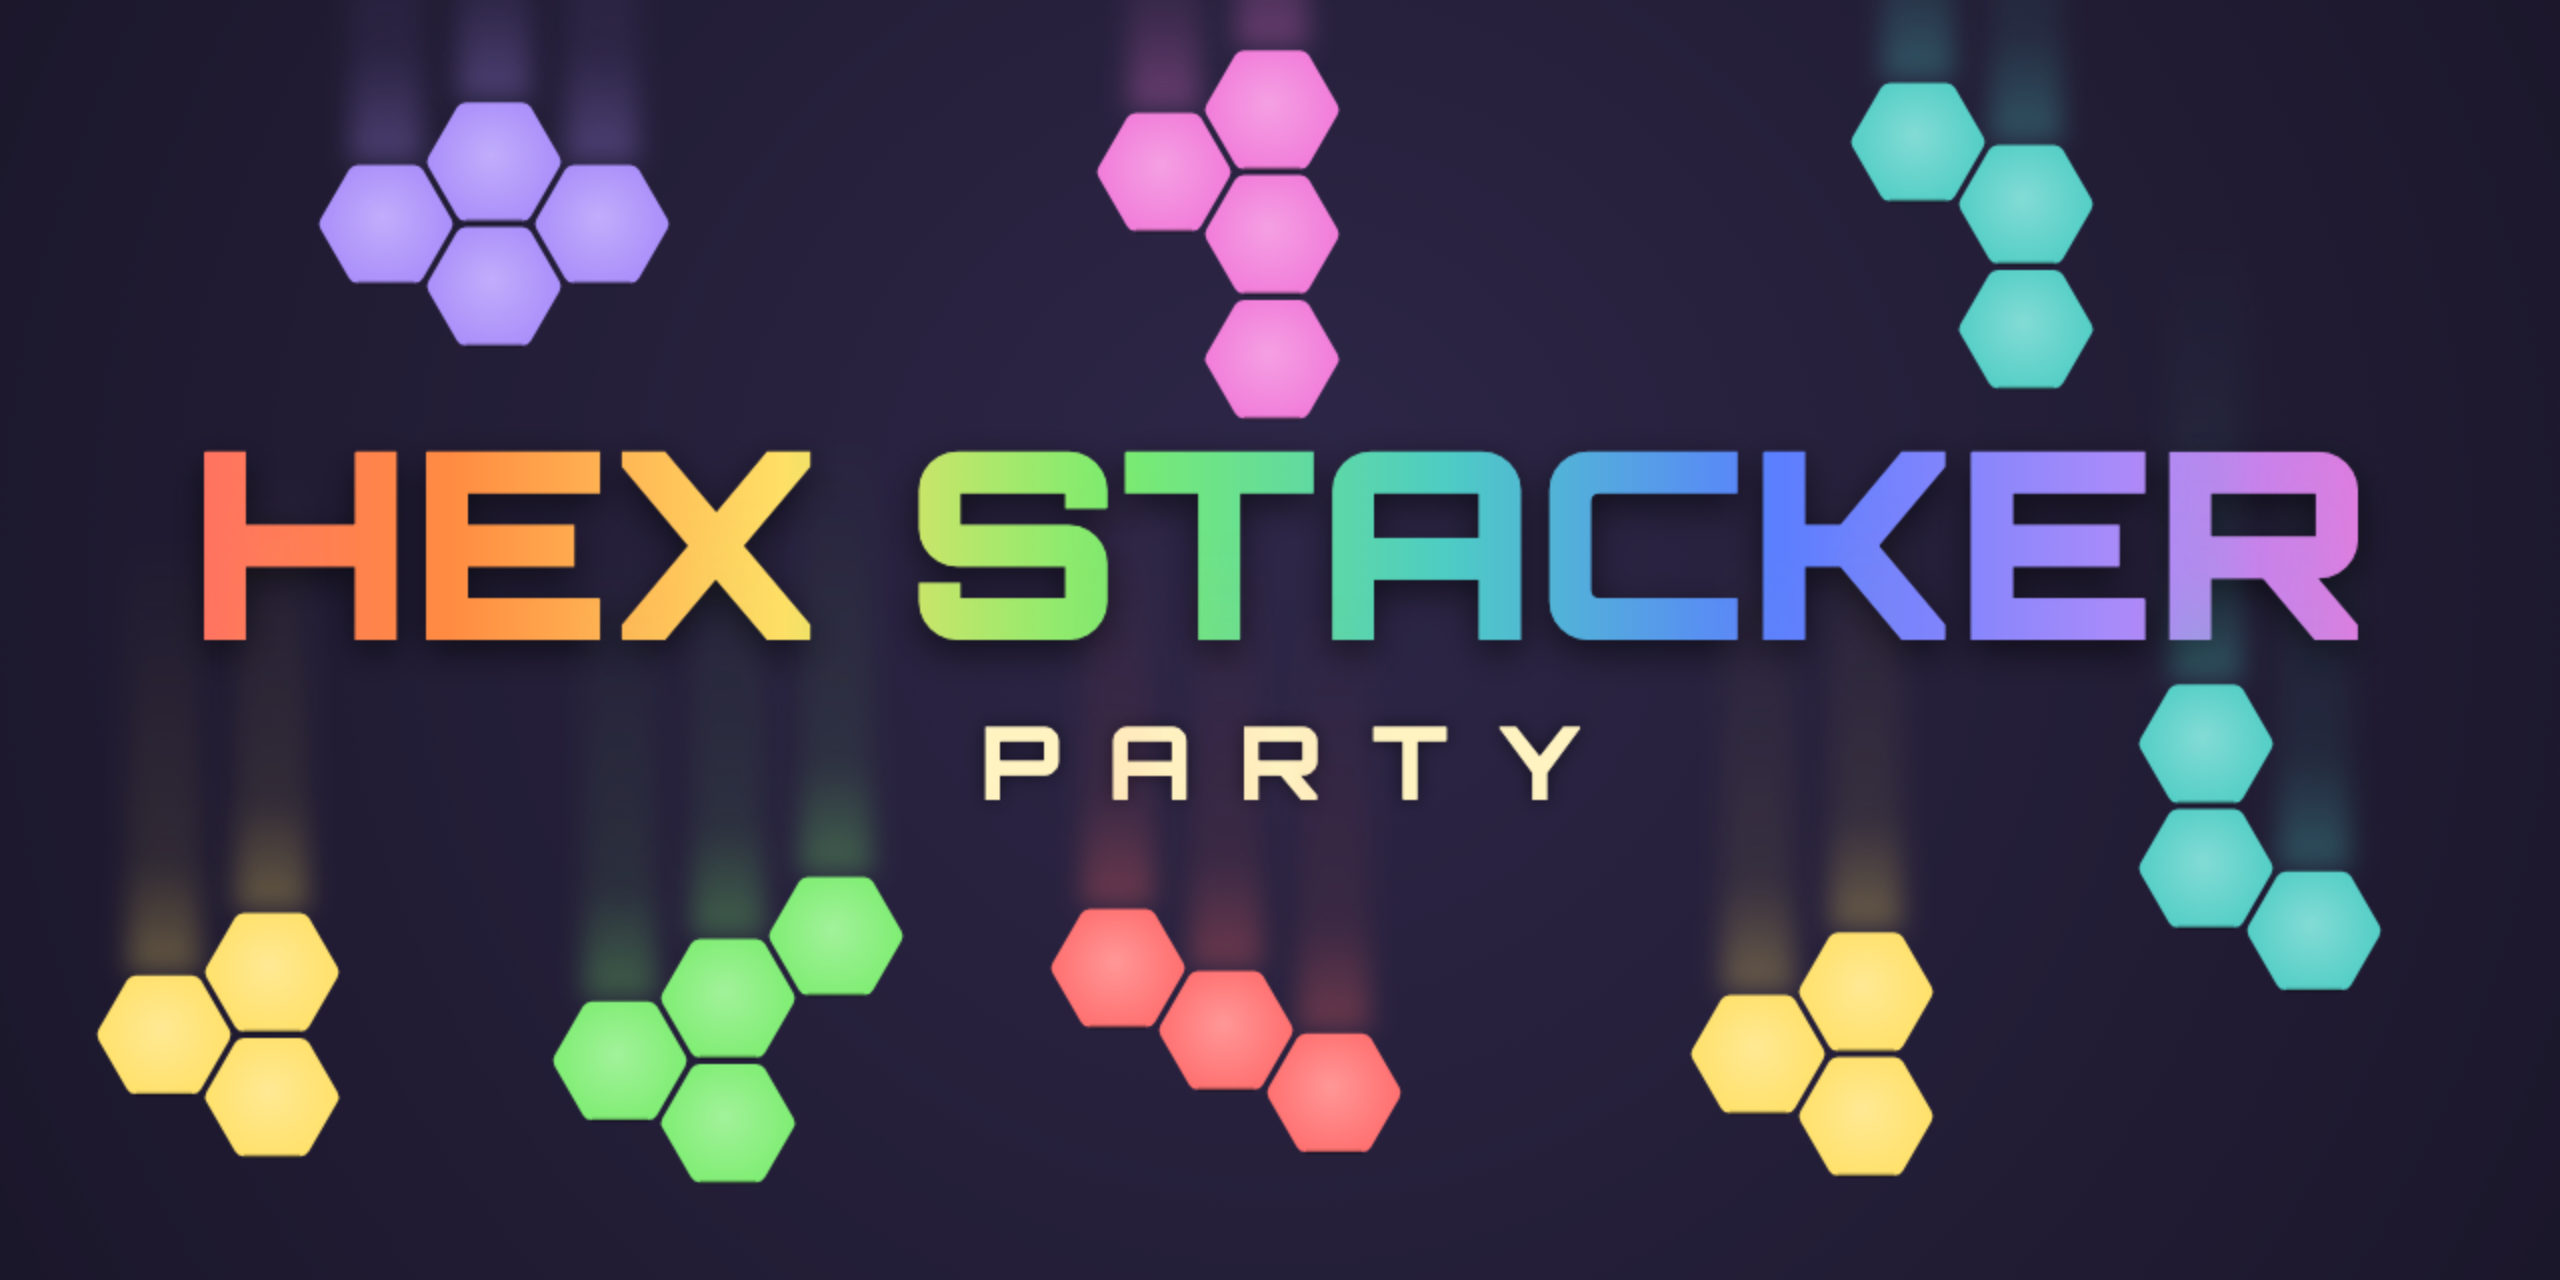
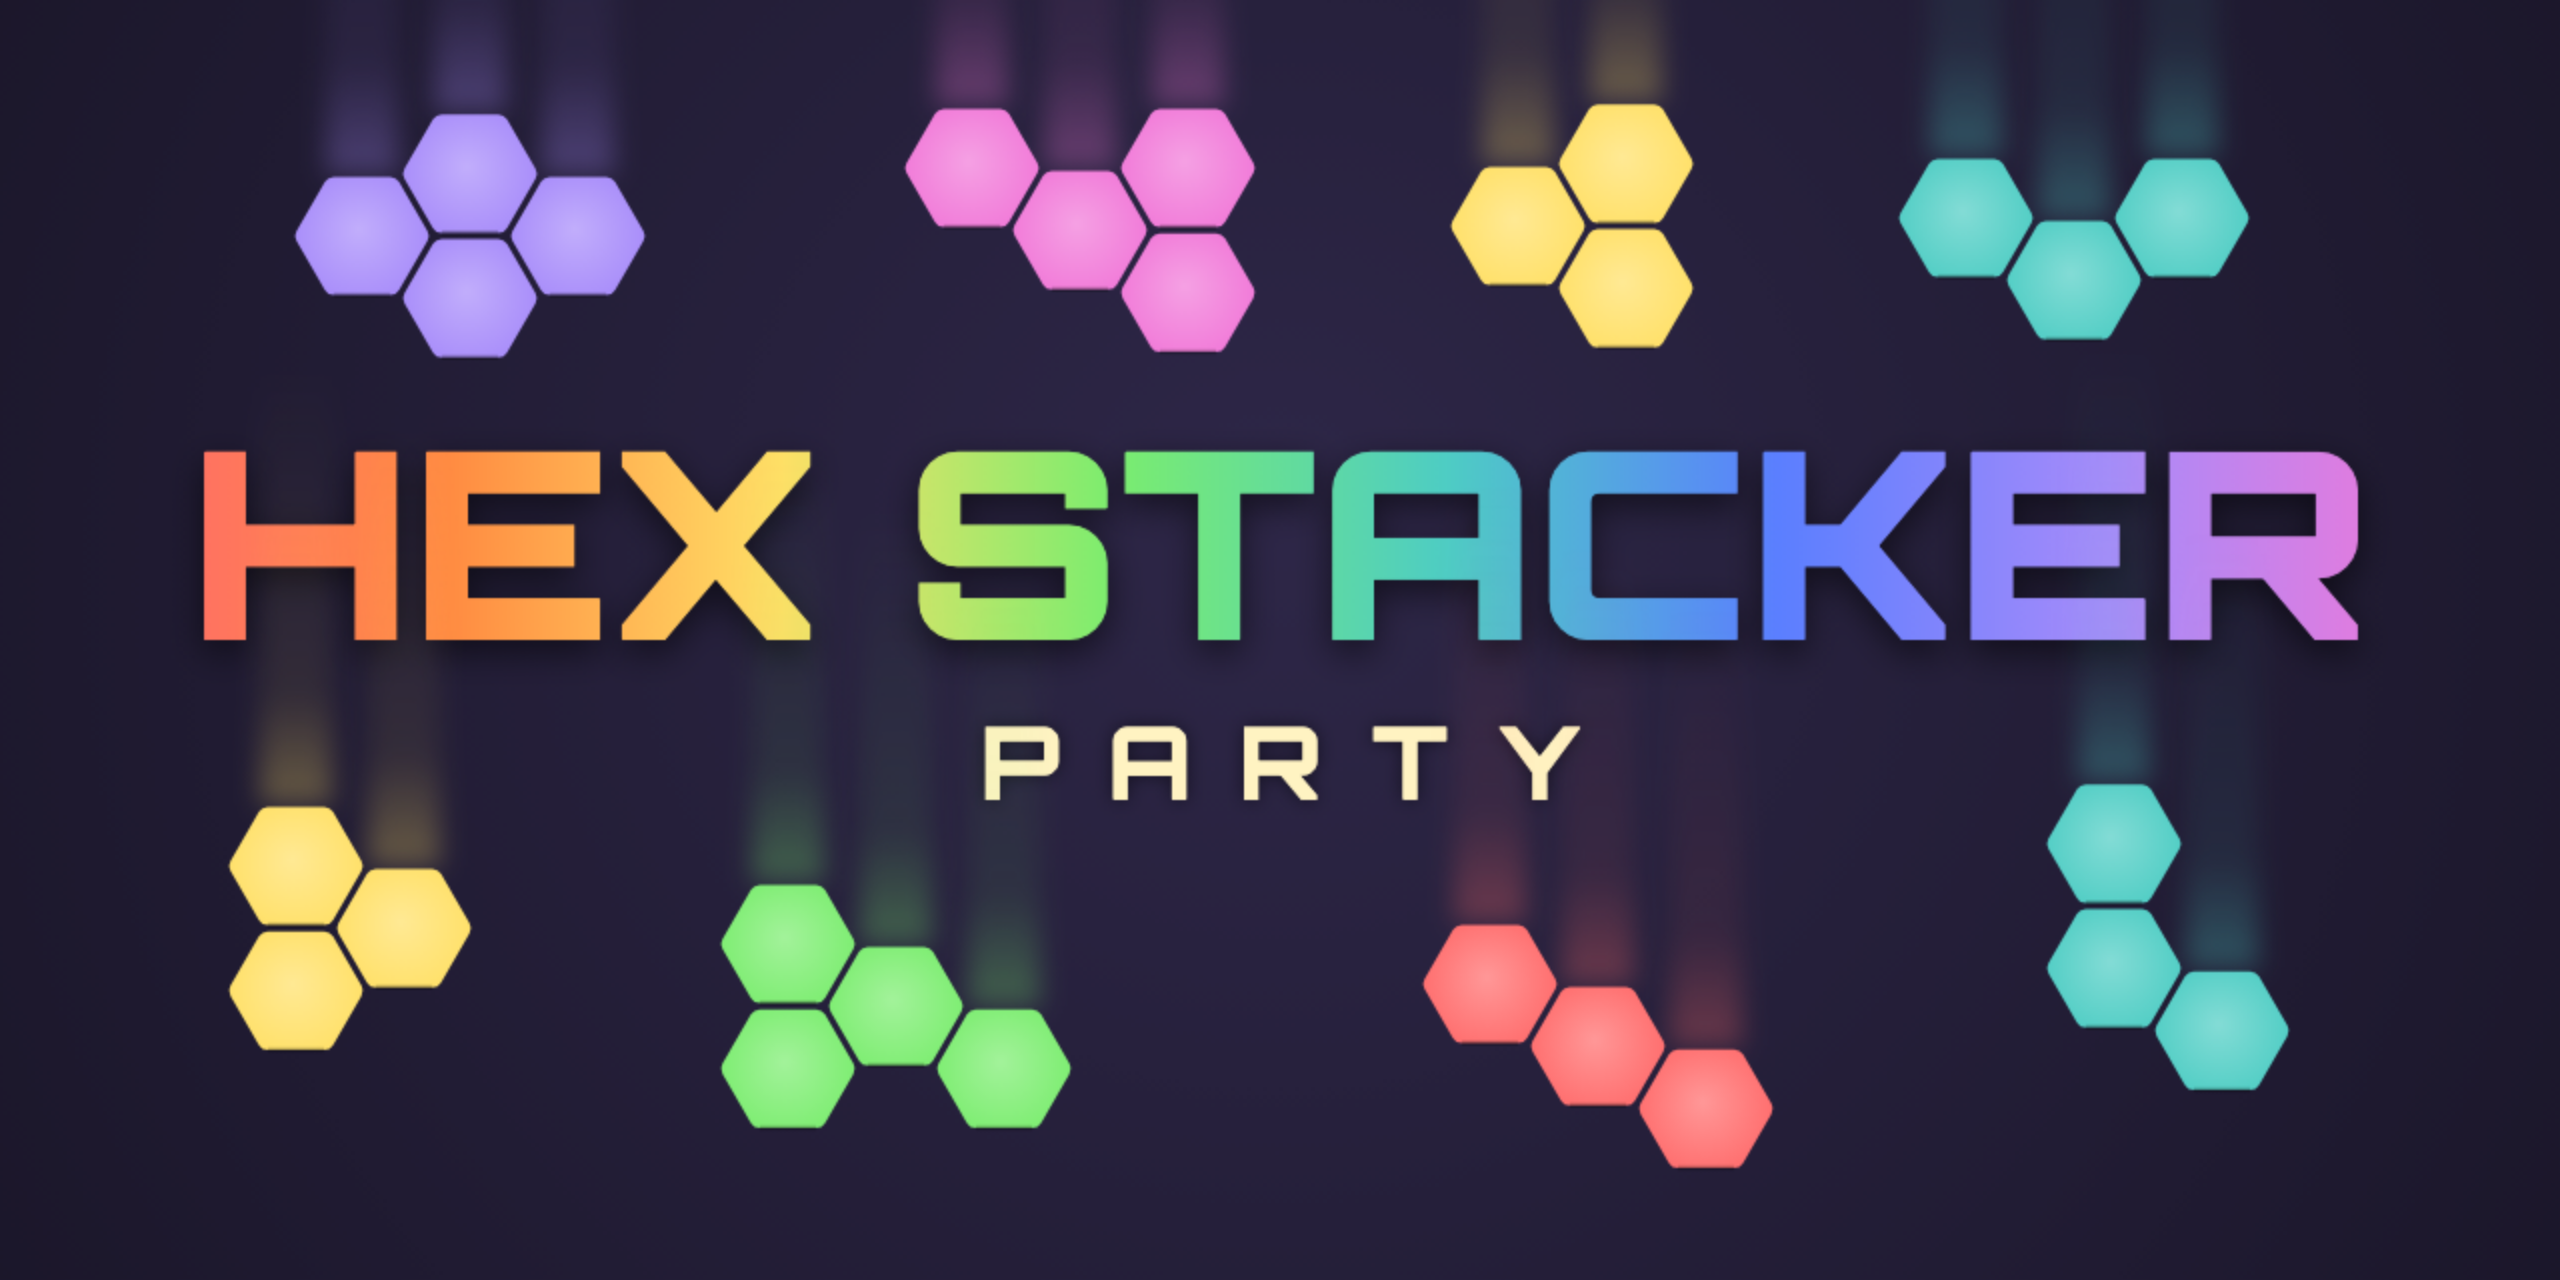
chore(artwork): refresh social-preview piece layout

diff --git a/artwork/builder.html b/artwork/builder.html
@@ -1066,14 +1066,14 @@
       overrideSize: true, globalSize: 36,
       overrideTrail: true, globalTrail: 220,
       pieces: [
-        { type: 'o',  x: 211,  y: 112, size: 32, trailLen: 0, rot: 0 },
-        { type: 'b',  x: 600,  y: 86,  size: 34, trailLen: 0, rot: 0 },
-        { type: 'V3', x: 977,  y: 71,  size: 36, trailLen: 0, rot: 0 },
-        { type: 'd',  x: 328,  y: 468, size: 34, trailLen: 0, rot: 1 },
-        { type: 'V3', x: 1067, y: 403, size: 32, trailLen: 0, rot: 3 },
-        { type: 'T3', x: 100,  y: 455, size: 36, trailLen: 0, rot: 1 },
-        { type: 'I3', x: 577,  y: 484, size: 42, trailLen: 0, rot: 0 },
-        { type: 'T3', x: 897,  y: 527, size: 36, trailLen: 0, rot: 3 },
+        { type: 'o',  x: 199,  y: 118, size: 32, trailLen: 0, rot: 0 },
+        { type: 'b',  x: 504,  y: 84,  size: 34, trailLen: 0, rot: 2 },
+        { type: 'V3', x: 1001, y: 109, size: 36, trailLen: 0, rot: 2 },
+        { type: 'd',  x: 412,  y: 472, size: 34, trailLen: 0, rot: 2 },
+        { type: 'V3', x: 1021, y: 453, size: 32, trailLen: 0, rot: 3 },
+        { type: 'T3', x: 166,  y: 433, size: 36, trailLen: 0, rot: 2 },
+        { type: 'I3', x: 763,  y: 492, size: 42, trailLen: 0, rot: 0 },
+        { type: 'T3', x: 777,  y: 113, size: 36, trailLen: 0, rot: 3 },
       ],
       selectedPiece: -1,
     },